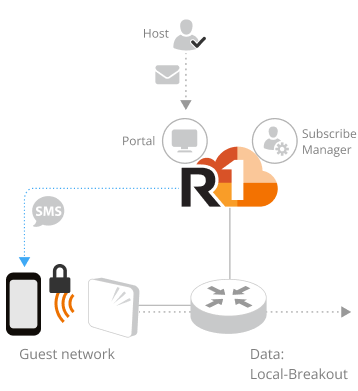
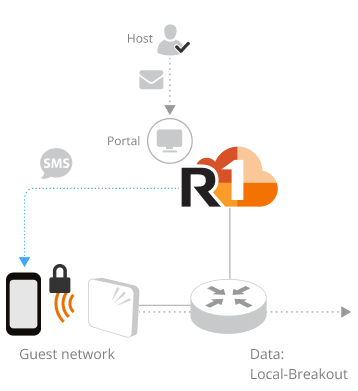
ACX-86291: Support Accounting service on CaptivePortal Host approval network

diff --git a/libs/rc/shared/components/src/NetworkForm/NetworkDiagram/NetworkDiagram.tsx b/libs/rc/shared/components/src/NetworkForm/NetworkDiagram/NetworkDiagram.tsx
@@ -44,8 +44,14 @@ import GuestPassPskAaaProxyDiagram     from '../assets/images/network-wizard-dia
 import GuestPassPskAaaDiagram          from '../assets/images/network-wizard-diagrams/guest-pass-psk-aaa.png'
 import GuestPassPskDiagram             from '../assets/images/network-wizard-diagrams/guest-pass-psk.png'
 import GuestPassDiagram                from '../assets/images/network-wizard-diagrams/guest-pass.png'
-import HostApprovalWithOweDiagram      from '../assets/images/network-wizard-diagrams/host-approval-owe.png'
-import HostApprovalWithPskDiagram      from '../assets/images/network-wizard-diagrams/host-approval-psk.png'
+import HostApprovalAaaProxyDiagram     from '../assets/images/network-wizard-diagrams/host-approval-aaa-proxy.png'
+import HostApprovalAaaDiagram          from '../assets/images/network-wizard-diagrams/host-approval-aaa.png'
+import HostApprovalOweAaaProxyDiagram  from '../assets/images/network-wizard-diagrams/host-approval-owe-aaa-proxy.png'
+import HostApprovalOweAaaDiagram       from '../assets/images/network-wizard-diagrams/host-approval-owe-aaa.png'
+import HostApprovalOweDiagram          from '../assets/images/network-wizard-diagrams/host-approval-owe.png'
+import HostApprovalPskAaaProxyDiagram  from '../assets/images/network-wizard-diagrams/host-approval-psk-aaa-proxy.png'
+import HostApprovalPskAaaDiagram       from '../assets/images/network-wizard-diagrams/host-approval-psk-aaa.png'
+import HostApprovalPskDiagram          from '../assets/images/network-wizard-diagrams/host-approval-psk.png'
 import HostApprovalDiagram             from '../assets/images/network-wizard-diagrams/host-approval.png'
 import Hotspot20Diagram                from '../assets/images/network-wizard-diagrams/hotspot2.0.png'
 import DefaultDiagram                  from '../assets/images/network-wizard-diagrams/none.png'
@@ -291,8 +297,7 @@ function getCaptivePortalDiagram (props: CaptivePortalDiagramProps) {
     [GuestNetworkTypeEnum.ClickThrough]: wisprWithPsk ? ClickThroughWithPskDiagram :
       (wisprWithOwe ? ClickThroughWithOweDiagram : ClickThroughDiagram),
     [GuestNetworkTypeEnum.SelfSignIn]: getSelfSignInDiagram(props),
-    [GuestNetworkTypeEnum.HostApproval]: wisprWithPsk ? HostApprovalWithPskDiagram :
-      (wisprWithOwe ? HostApprovalWithOweDiagram : HostApprovalDiagram),
+    [GuestNetworkTypeEnum.HostApproval]: getHostApprovalDiagram(props),
     [GuestNetworkTypeEnum.GuestPass]: getGuestPassDiagram(props),
     [GuestNetworkTypeEnum.Cloudpath]: getCloudpathDiagram(wisprWithPsk, wisprWithOwe, props),
     [GuestNetworkTypeEnum.WISPr]: props.wisprWithAlwaysAccept ?
@@ -307,7 +312,6 @@ function getCaptivePortalDiagram (props: CaptivePortalDiagramProps) {
   }
   return CaptivePortalDiagramMap[type] || ClickThroughDiagram
 }
-
 interface CaptivePortalDiagramSet {
   Diagram: string;
   AaaProxyDiagram: string;
@@ -315,23 +319,6 @@ interface CaptivePortalDiagramSet {
 }
 
 const captivePortalDiagramMapping: Record<string, CaptivePortalDiagramSet> = {
-  // --- GuestPass ---
-  GuestPassOWE: {
-    Diagram: GuestPassOweDiagram,
-    AaaProxyDiagram: GuestPassOweAaaProxyDiagram,
-    AaaDiagram: GuestPassOweAaaDiagram
-  },
-  GuestPassPSK: {
-    Diagram: GuestPassPskDiagram,
-    AaaProxyDiagram: GuestPassPskAaaProxyDiagram,
-    AaaDiagram: GuestPassPskAaaDiagram
-  },
-  GuestPass: {
-    Diagram: GuestPassDiagram,
-    AaaProxyDiagram: GuestPassAaaProxyDiagram,
-    AaaDiagram: GuestPassAaaDiagram
-  },
-
   // --- SelfSignIn ---
   SelfSignInOWE: {
     Diagram: SelfSignInOweDiagram,
@@ -347,6 +334,40 @@ const captivePortalDiagramMapping: Record<string, CaptivePortalDiagramSet> = {
     Diagram: SelfSignInDiagram,
     AaaProxyDiagram: SelfSignInAaaProxyDiagram,
     AaaDiagram: SelfSignInAaaDiagram
+  },
+
+  // --- HostApproval ---
+  HostApprovalOWE: {
+    Diagram: HostApprovalOweDiagram,
+    AaaProxyDiagram: HostApprovalOweAaaProxyDiagram,
+    AaaDiagram: HostApprovalOweAaaDiagram
+  },
+  HostApprovalPSK: {
+    Diagram: HostApprovalPskDiagram,
+    AaaProxyDiagram: HostApprovalPskAaaProxyDiagram,
+    AaaDiagram: HostApprovalPskAaaDiagram
+  },
+  HostApproval: {
+    Diagram: HostApprovalDiagram,
+    AaaProxyDiagram: HostApprovalAaaProxyDiagram,
+    AaaDiagram: HostApprovalAaaDiagram
+  },
+
+  // --- GuestPass ---
+  GuestPassOWE: {
+    Diagram: GuestPassOweDiagram,
+    AaaProxyDiagram: GuestPassOweAaaProxyDiagram,
+    AaaDiagram: GuestPassOweAaaDiagram
+  },
+  GuestPassPSK: {
+    Diagram: GuestPassPskDiagram,
+    AaaProxyDiagram: GuestPassPskAaaProxyDiagram,
+    AaaDiagram: GuestPassPskAaaDiagram
+  },
+  GuestPass: {
+    Diagram: GuestPassDiagram,
+    AaaProxyDiagram: GuestPassAaaProxyDiagram,
+    AaaDiagram: GuestPassAaaDiagram
   }
 }
 
@@ -357,13 +378,11 @@ function createCaptivePortalDiagramGenerator (
       props.networkSecurity === 'OWE' || props.networkSecurity === 'PSK' ?
         props.networkSecurity : ''
     const key = `${prefix}${securityTypeKey}`
+
     const diagrams = captivePortalDiagramMapping[key]
 
     return getCommonCaptivePortalDiagram(
-      props,
-      diagrams.Diagram,
-      diagrams.AaaProxyDiagram,
-      diagrams.AaaDiagram
+      props, diagrams.Diagram, diagrams.AaaProxyDiagram, diagrams.AaaDiagram
     )
   }
 }
@@ -379,6 +398,7 @@ function getCommonCaptivePortalDiagram (
 }
 
 const getSelfSignInDiagram = createCaptivePortalDiagramGenerator('SelfSignIn')
+const getHostApprovalDiagram = createCaptivePortalDiagramGenerator('HostApproval')
 const getGuestPassDiagram = createCaptivePortalDiagramGenerator('GuestPass')
 
 export function NetworkDiagram (props: NetworkDiagramProps) {

diff --git a/libs/rc/shared/components/src/NetworkForm/NetworkDiagram/NetworkDiagram.spec.tsx b/libs/rc/shared/components/src/NetworkForm/NetworkDiagram/NetworkDiagram.spec.tsx
@@ -806,15 +806,18 @@ describe('NetworkDiagram', () => {
     })
     it('should render Captive portal (Host Approval) diagram successfully', async () => {
       const portalType = GuestNetworkTypeEnum.HostApproval
-      const { asFragment } = render(
+      render(
         <Provider>
           <NetworkFormContext.Provider value={{
             editMode: false,
             cloneMode: false,
+            isRuckusAiMode: false,
             data: { type },
             setData: jest.fn()
           }}>
-            <NetworkDiagram networkPortalType={portalType} />
+            <NetworkDiagram
+              networkPortalType={portalType}
+            />
           </NetworkFormContext.Provider>
         </Provider>, {
           route: {
@@ -823,20 +826,25 @@ describe('NetworkDiagram', () => {
         })
       const diagram = screen.getByRole('img') as HTMLImageElement
       expect(diagram.src).toContain('HostApproval')
-      expect(asFragment()).toMatchSnapshot()
     })
     it('should render Captive portal (Host Approval with PSK) diagram successfully', async () => {
       const portalType = GuestNetworkTypeEnum.HostApproval
-      const { asFragment } = render(
+      render(
         <Provider>
           <NetworkFormContext.Provider value={{
             editMode: false,
             cloneMode: false,
+            isRuckusAiMode: false,
             data: { type },
             setData: jest.fn()
           }}>
-            <NetworkDiagram networkPortalType={portalType}
-              wlanSecurity={WlanSecurityEnum.WPA23Mixed} />
+            <NetworkDiagram
+              type={NetworkTypeEnum.CAPTIVEPORTAL}
+              networkPortalType={portalType}
+              wlanSecurity={WlanSecurityEnum.WPA23Mixed}
+              networkSecurity={'PSK'}
+              enableAccountingService={true}
+            />
           </NetworkFormContext.Provider>
         </Provider>, {
           route: {
@@ -844,20 +852,27 @@ describe('NetworkDiagram', () => {
           }
         })
       const diagram = screen.getByRole('img') as HTMLImageElement
-      expect(diagram.src).toContain('HostApprovalPsk')
-      expect(asFragment()).toMatchSnapshot()
+      expect(diagram.src).toContain('HostApprovalPskAaa')
     })
     it('should render Captive portal (Host Approval with OWE) diagram successfully', async () => {
       const portalType = GuestNetworkTypeEnum.HostApproval
-      const { asFragment } = render(
+      render(
         <Provider>
           <NetworkFormContext.Provider value={{
             editMode: false,
             cloneMode: false,
+            isRuckusAiMode: false,
             data: { type },
             setData: jest.fn()
           }}>
-            <NetworkDiagram networkPortalType={portalType} wlanSecurity={WlanSecurityEnum.OWE} />
+            <NetworkDiagram
+              type={NetworkTypeEnum.CAPTIVEPORTAL}
+              networkPortalType={portalType}
+              wlanSecurity={WlanSecurityEnum.WPA23Mixed}
+              networkSecurity={'OWE'}
+              enableAccountingService={true}
+              enableAccountingProxy={true}
+            />
           </NetworkFormContext.Provider>
         </Provider>, {
           route: {
@@ -865,8 +880,7 @@ describe('NetworkDiagram', () => {
           }
         })
       const diagram = screen.getByRole('img') as HTMLImageElement
-      expect(diagram.src).toContain('HostApprovalOwe')
-      expect(asFragment()).toMatchSnapshot()
+      expect(diagram.src).toContain('HostApprovalOweAaaProxy')
     })
     it('should render Captive portal (Guest Pass) diagram successfully', async () => {
       const portalType = GuestNetworkTypeEnum.GuestPass

diff --git a/libs/rc/shared/components/src/NetworkForm/CaptivePortal/HostApprovalForm.tsx b/libs/rc/shared/components/src/NetworkForm/CaptivePortal/HostApprovalForm.tsx
@@ -33,6 +33,7 @@ import { captivePasswordExpiration } from '../contentsMap'
 import { NetworkDiagram }            from '../NetworkDiagram/NetworkDiagram'
 import NetworkFormContext            from '../NetworkFormContext'
 import { NetworkMoreSettingsForm }   from '../NetworkMoreSettings/NetworkMoreSettingsForm'
+import { AccountingServiceInput }    from '../SharedComponent'
 import { AsteriskFormTitle }         from '../styledComponents'
 
 import { DhcpCheckbox }                          from './DhcpCheckbox'
@@ -59,6 +60,14 @@ export function HostApprovalForm () {
   keyof typeof CaptivePassphraseExpirationEnum>
   const HAEmailList_FeatureFlag = useIsSplitOn(Features.HOST_APPROVAL_EMAIL_LIST_TOGGLE)
   const domainOrEmail = useWatch(['guestPortal','hostGuestConfig', 'hostApprovalType'])
+
+  const networkSecurity = useWatch('networkSecurity', form)
+  const enableAccountingProxy = useWatch('enableAccountingProxy', form)
+  const enableAccountingService = useWatch('enableAccountingService', form)
+
+  // eslint-disable-next-line max-len
+  const isSupportNetworkRadiusAccounting = useIsSplitOn(Features.WIFI_NETWORK_RADIUS_ACCOUNTING_TOGGLE)
+
   useEffect(()=>{
     if((editMode || cloneMode) && data){
       form.setFieldsValue({ ...data })
@@ -247,11 +256,20 @@ export function HostApprovalForm () {
         <BypassCaptiveNetworkAssistantCheckbox/>
         <WalledGardenTextArea
           enableDefaultWalledGarden={false} />
+        {isSupportNetworkRadiusAccounting &&
+          <AccountingServiceInput
+            isProxyModeConfigurable={true}
+          />
+        }
       </GridCol>
       <GridCol col={{ span: 14 }}>
         <NetworkDiagram type={NetworkTypeEnum.CAPTIVEPORTAL}
           networkPortalType={GuestNetworkTypeEnum.HostApproval}
-          wlanSecurity={data?.wlan?.wlanSecurity} />
+          wlanSecurity={data?.wlan?.wlanSecurity}
+          networkSecurity={networkSecurity}
+          enableAccountingService={enableAccountingService}
+          enableAccountingProxy={enableAccountingProxy}
+        />
       </GridCol>
     </GridRow>
     {!(editMode) && !(isRuckusAiMode) && <GridRow>

diff --git a/libs/rc/shared/components/src/NetworkForm/NetworkForm.tsx b/libs/rc/shared/components/src/NetworkForm/NetworkForm.tsx
@@ -723,6 +723,7 @@ export function NetworkForm (props:{
     if(
       saveState.guestPortal?.guestNetworkType !== GuestNetworkTypeEnum.Cloudpath &&
       saveState.guestPortal?.guestNetworkType !== GuestNetworkTypeEnum.Workflow &&
+      saveState.guestPortal?.guestNetworkType !== GuestNetworkTypeEnum.HostApproval &&
       saveState.guestPortal?.guestNetworkType !== GuestNetworkTypeEnum.GuestPass &&
       saveState.guestPortal?.guestNetworkType !== GuestNetworkTypeEnum.SelfSignIn
     ){

diff --git a/libs/rc/shared/components/src/NetworkForm/utils.tsx b/libs/rc/shared/components/src/NetworkForm/utils.tsx
@@ -448,6 +448,7 @@ export function shouldSaveRadiusServerSettings (saveData: NetworkSaveData): bool
         GuestNetworkTypeEnum.Cloudpath,
         GuestNetworkTypeEnum.Workflow,
         GuestNetworkTypeEnum.GuestPass,
+        GuestNetworkTypeEnum.HostApproval,
         GuestNetworkTypeEnum.SelfSignIn
       ].includes(
         saveData.guestPortal?.guestNetworkType ?? GuestNetworkTypeEnum.ClickThrough
